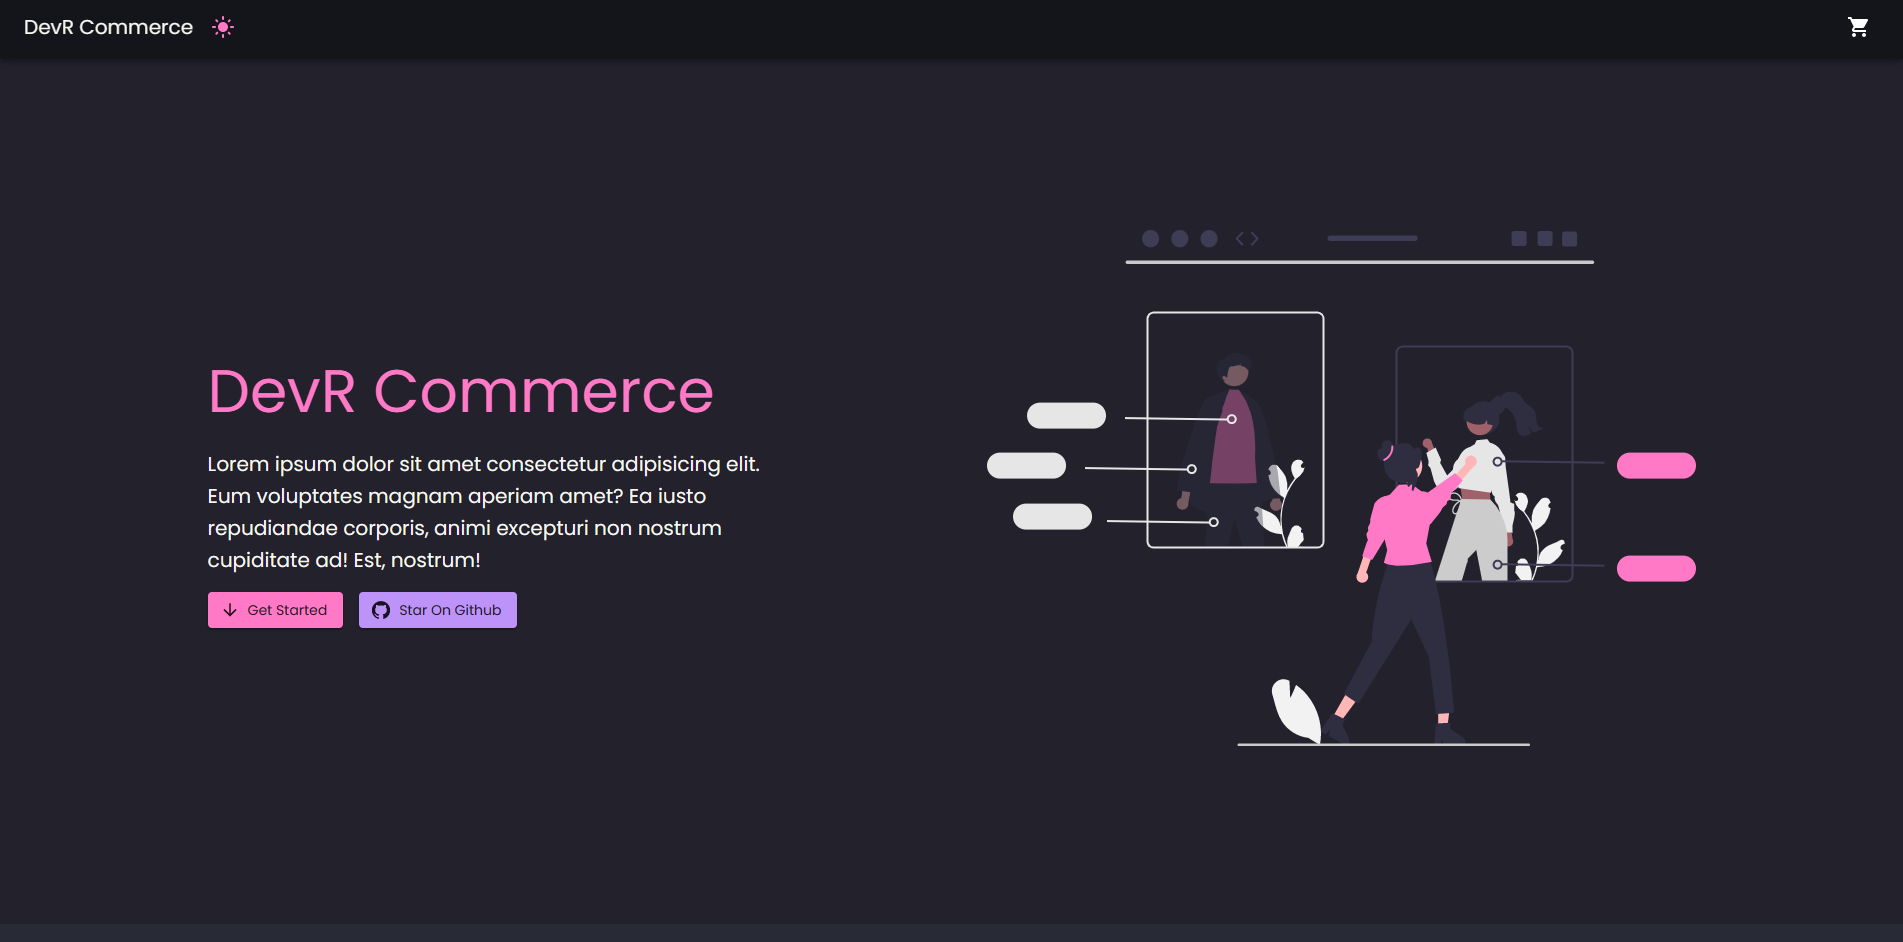
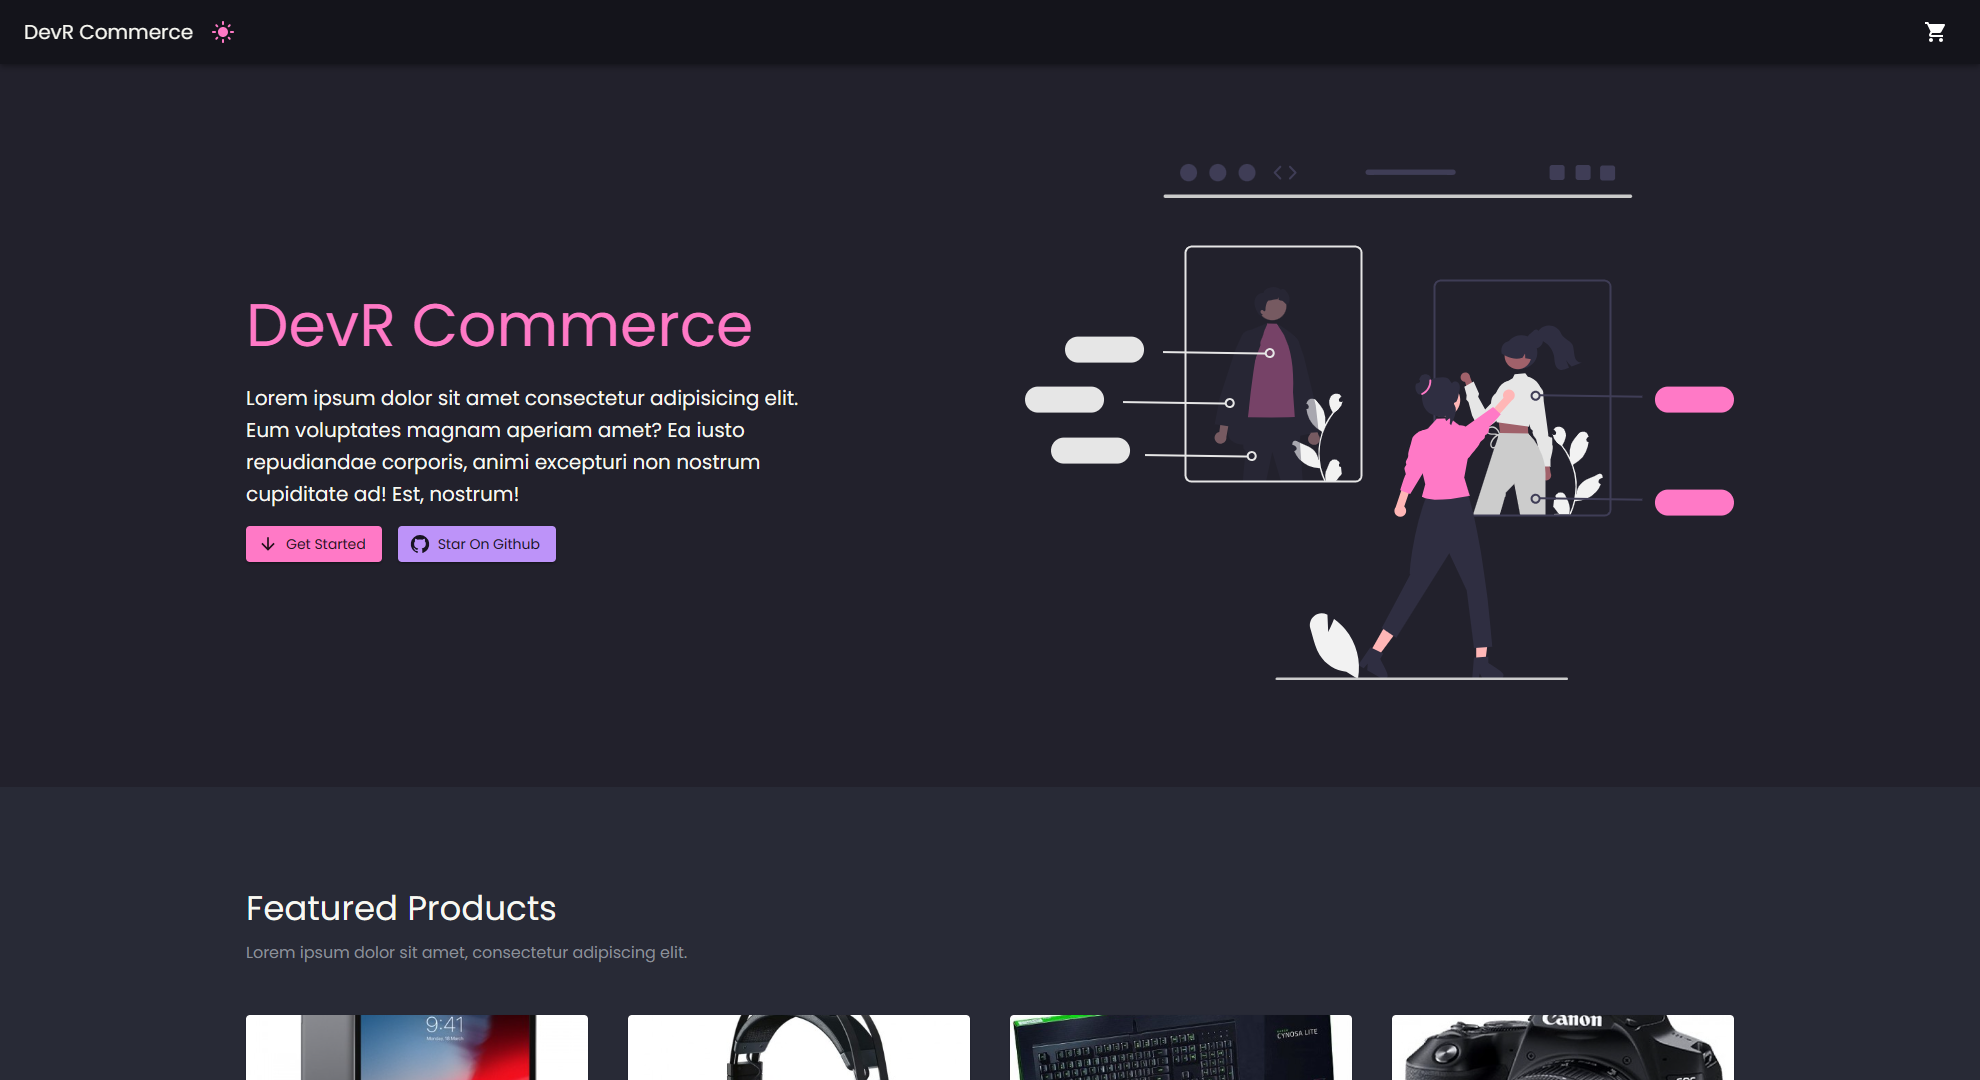
updated projects

diff --git a/components/Home/Projects.tsx b/components/Home/Projects.tsx
@@ -5,8 +5,10 @@ import type { StaticImageData } from "next/image";
 import Image from "next/image";
 
 import ProjectDevRCommerceSrc from "@/assets/project-images/devr-commerce.png";
+import Project4Src from "@/assets/project-images/file-converter.png";
 import ProjectMemeSiteSrc from "@/assets/project-images/meme-site.png";
-import ProjectZioLandingPageSrc from "@/assets/project-images/zion-landing-page.jpeg";
+import Project5Src from "@/assets/project-images/snagem.png";
+import ProjectZioLandingPageSrc from "@/assets/project-images/zion-landing-page.jpg";
 import { Button, Section } from "@/components";
 
 export type Project = {
@@ -34,6 +36,24 @@ const projectData: Project[] = [
     repo: "http://github.com/developeratul/devr-commerce",
   },
   {
+    id: "3",
+    category: "Launched",
+    name: "Landing page",
+    description: "A landing page with parallax scroll effects and animations",
+    imageURL: ProjectZioLandingPageSrc,
+    stack: ["React", "Next.js", "TypeScript", "Tailwind CSS", "Shadcn UI"],
+    preview: "http://zion-blue.vercel.app",
+    repo: "http://github.com/developeratul/zion-landing-page",
+  },
+  {
+    id: "5",
+    category: "Launched",
+    name: "Snagem Dashboard",
+    description: "A beautifully designed and function dashboard (Done for a client)",
+    imageURL: Project5Src,
+    stack: ["React", "TypeScript", "Tailwind CSS", "Mantine UI", "Firebase"],
+  },
+  {
     id: "2",
     category: "Launched",
     name: "MEME Site",
@@ -44,14 +64,13 @@ const projectData: Project[] = [
     repo: "http://github.com/developeratul/meme-website",
   },
   {
-    id: "3",
+    id: "4",
     category: "Launched",
-    name: "Landing page",
-    description: "A landing page with parallax scroll effects and animations",
-    imageURL: ProjectZioLandingPageSrc,
-    stack: ["React", "Next.js", "TypeScript", "Tailwind CSS"],
-    preview: "http://zion-blue.vercel.app",
-    repo: "http://github.com/developeratul/zion-landing-page",
+    name: "File Converter",
+    description: "A file conversion app utilizing the CloudConvert API",
+    imageURL: Project4Src,
+    stack: ["React", "Next.js", "TypeScript", "Tailwind CSS", "Shadcn UI", "CloudConvert API"],
+    preview: "https://file-converter-devr.vercel.app",
   },
 ];
 
@@ -60,13 +79,14 @@ export function Project(props: ProjectProps) {
   return (
     <div
       id={id}
-      className="group flex transform flex-col gap-5 rounded-md bg-white p-5 shadow-md dark:bg-background-400"
+      className="flex transform flex-col gap-5 rounded-md bg-white p-5 shadow-md dark:bg-background-400"
     >
       <Image
         src={imageURL}
         alt={name}
         width={500}
-        className="h-[300px] w-full rounded-md bg-[top] object-cover duration-200 group-hover:object-contain"
+        height={300}
+        className="h-[200px] w-full rounded-md bg-center object-cover duration-200"
       />
       <div className="flex flex-col gap-3">
         <div>
@@ -79,7 +99,7 @@ export function Project(props: ProjectProps) {
           {stack.map((tech, index) => (
             <span
               key={index}
-              className="inline-flex flex-auto items-center justify-center rounded-md bg-primary-600 py-1 px-3 text-center align-middle text-xs text-primary-50 dark:bg-primary-500 dark:text-primary-800"
+              className="inline-flex flex-auto items-center justify-center rounded-md bg-primary-600 py-1 px-3 text-center align-middle text-xs text-primary-50 dark:bg-primary-400 dark:text-primary-800"
             >
               {tech}
             </span>
